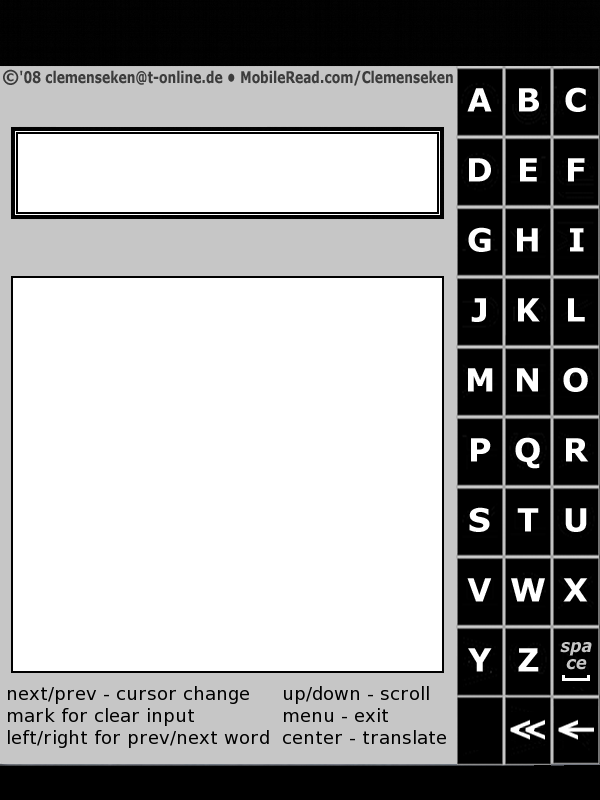
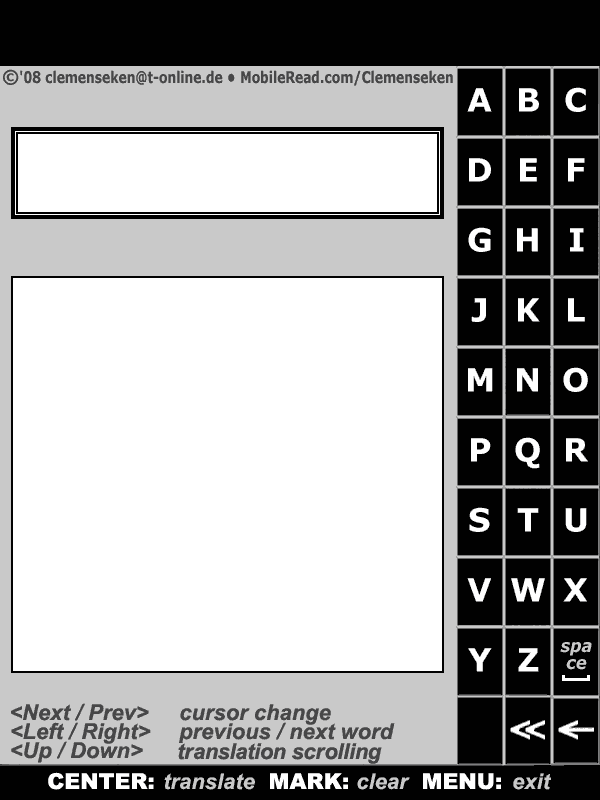
Replaced skin image with slightly modified VICTORSJG's version (help text) Optimized images Merged with m-land's fixes (scrolling)

Changed region(s): [[0.0, 0.8438, 0.93, 1.0]]

diff --git a/505/addons/DictionaryCL/dictionary.js b/505/addons/DictionaryCL/dictionary.js
@@ -1,3 +1,8 @@
+// Description: Dictionary by Celemenseken & Lisak & m-land
+// History:
+//	2010-05-18 kartu - Uploaded scrolling fixes by m-land
+//
+
 var Core = params.Core;
 log = params.log;
 //dictionary files
@@ -6,7 +11,7 @@ var lineNo = 0; //a line number with the result of the last search
 var lineLength = 30; //length of line when displaying definition
 var xCol = 1; //starting position of the cursor - at the middle column
 var scrollingOffset = 0; //which line of definition is "1st" due to scrolling?
-var formatedDefinition = new Array(); //array with formated definition
+var formatedDefinition = []; //array with formated definition
 //Three button selection mode: if true, left arrow: left column, up arrow: up column, right arrow: right column
 //otherwise: up arrow: previous term, left arrow - move cursor to left, right arrow - move cursor to the right
 //target.threeButton = true;
@@ -96,7 +101,7 @@ target.printLines = function (aLines) {
 
 //formats definition for Result area
 target.txtFormat = function (def) {
-	var aLines = new Array();
+	var aLines = [];
 	var strPos = 0;
 	var arrIdx = 0;
 	var spaceIdx = 0;
@@ -134,24 +139,28 @@ target.txtFormat = function (def) {
 //scrolling of resultset
 target.doScroll = function () {
 	//scroll scrollingOffset of lines (9: # of lines)
-	var tmpBuff = new Array();
+	var tmpBuff = [];
 	for (var i = 0; i < 9; i++) {
 		tmpBuff[i] = formatedDefinition[i + scrollingOffset];
 	}
 	this.printLines(tmpBuff);
-}
+};
 
 //move cursor in columns (xCol: 0, 1 or 2)
 target.moveCursor = function (direction) {
 	if (direction == "left") {
-		if (--xCol < 0) xCol = 2;
+		if (--xCol < 0) {
+			xCol = 2;
+		}
 	}
 	if (direction == "right") {
-		if (++xCol > 2) xCol = 0;
+		if (++xCol > 2) {
+			xCol = 0;
+		}
 	}
 
 	this.lineCursor.changeLayout(457 + xCol * 48, undefined, undefined, 627, undefined, undefined);
-}
+};
 //move cursor in columns (xCol: 0, 1 or 2)
 target.arrowKey = function (button) {
 	if (button == "left") {
@@ -173,14 +182,14 @@ target.arrowKey = function (button) {
 
 	if (button == "up") {
 		if (scrollingOffset > 0) {
-			scrollingOffset -= 10;
+			scrollingOffset -= 9;
 			this.doScroll();
 		}
 	}
 
 	if (button == "down") {
-		if (scrollingOffset < formatedDefinition.length - 10) {
-			scrollingOffset += 10;
+		if (scrollingOffset < formatedDefinition.length - 9) {
+			scrollingOffset += 9;
 			this.doScroll();
 		}
 	}
